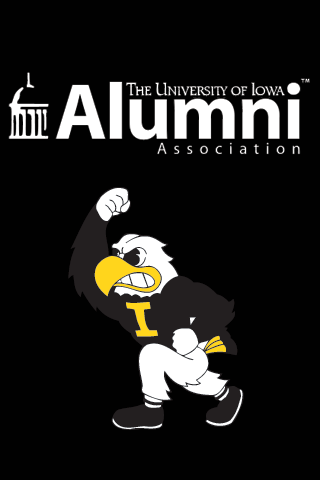
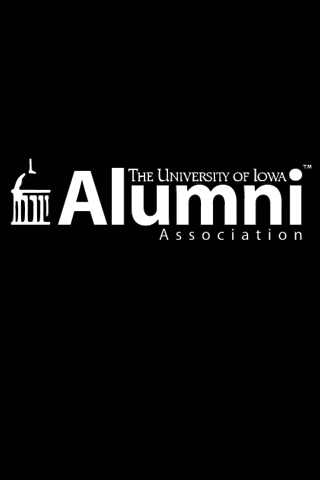
UIAA App (7/15/2013 Time: 2:58pm)

Changed region(s): [[0.0312, 0.1562, 0.9688, 0.9062], [0.0312, 0.3438, 0.1562, 0.4688]]

diff --git a/Resources/ui/common/GameWatchWindow.js b/Resources/ui/common/GameWatchWindow.js
@@ -4,6 +4,7 @@ var WebView = require('ui/common/WebView');
 function GameWatchWindow(clubData, clubInfoData) {
 	
 //-----------	Game Watch Window -----------//
+
 	var self = Ti.UI.createWindow({
 	    backgroundColor:'#e2e2e2',
 		navBarHidden: true
@@ -42,6 +43,9 @@ function GameWatchWindow(clubData, clubInfoData) {
 		window:masterContainerWindow
 	});
 	self.add(navGroup);
+	
+	
+	
 	
 	
 	var mapWin = Ti.UI.createWindow({
@@ -215,7 +219,7 @@ var navTab1 = Titanium.UI.iPhone.createNavigationGroup({
 	
 	//create master view container
 	var masterContainerWindow = Ti.UI.createWindow({
-		title: windowTitle,
+		title: clubData[0].state,
 		navBarHidden:false,
 		barImage:'navbar.png',
 		//hires:true,
@@ -382,6 +386,8 @@ tabGroup.open();
 return mainWinTab1;
 
 }
+
+//Helper Functions
 
 function addRows(i, data, flag){
 	if (i == 1 && flag == true){

diff --git a/Resources/ui/common/MapWindow.js b/Resources/ui/common/MapWindow.js
@@ -53,7 +53,7 @@ function MapWindow(data) {
 		
 	});
 	var introLabel = Ti.UI.createLabel({
-			 text: ('UI Alumni members have an array of ').concat('\navailable to them. Use your member benefit card at any of these locations.'),
+			 text: ('UI Alumni Association members have').concat('\nan array of available to them. Use your member benefit card at any of these locations.'),
 			 textAlign: 'left',
 			 left: 10,
 			 width: 300,
@@ -66,7 +66,7 @@ function MapWindow(data) {
 	var linkLabel = Ti.UI.createLabel({
 			 text: 'benefits',
 			 textAlign: 'left',
-			 left: 231.5,
+			 left: 236.5,
 			 top: 10,
 			 color: 'blue',
 			font: {fontFamily:'HelveticaNeue-Light',fontSize:14,fontWeight:'bold'}

diff --git a/Resources/ui/common/MasterView.js b/Resources/ui/common/MasterView.js
@@ -171,13 +171,7 @@ function MasterView(feed) {
 							var row = new Ad(the_Ad, adEIndex);
 							
 				
-							row.addEventListener('click', function(e) {
-
-								var the_Link = (ads[e.row.linkIndex].link).replace("#", "");
-								the_Link = (the_Link).replace("#", "");
-								new WebView (ads[e.row.linkIndex].link);
-								
-							});
+					
 							rows.push(row);
 							adEIndex++;
 							if (adEIndex == 3){

diff --git a/Resources/ui/common/MemberCardWindow.js b/Resources/ui/common/MemberCardWindow.js
@@ -78,10 +78,10 @@ function  MemberCardWindow(title){
 	});
 	
 	var people = Ti.UI.createImageView({
-	  image:    'herky.png',
+	  image:    'thawk.png',
 	  top:   250,
-	  width: 105,
-	  height: 151
+	  width: 200,
+	  height: 127
 	});
 	
 	passwordWin.add(people);

diff --git a/Resources/ui/common/RootWindow.js b/Resources/ui/common/RootWindow.js
@@ -97,7 +97,7 @@ function RootWindow(data) {
 		
 		if(events.length > 0){
 			var eventHeaderLabel = Ti.UI.createLabel({
-				text: "Today Events",
+				text: "Today's Events",
 				width: 300,
 				top: 10,
 				left: 10,

diff --git a/Resources/ui/common/HeaderRow.js b/Resources/ui/common/HeaderRow.js
@@ -28,7 +28,7 @@ function HeaderRow(post) {
 	        
 	    });
 	 rowText.addEventListener('click', function(e) {
-			new WebView (post.url);
+			new WebView (post.hlink);
 	 });
 	 
 	table.height = rowText.height;
